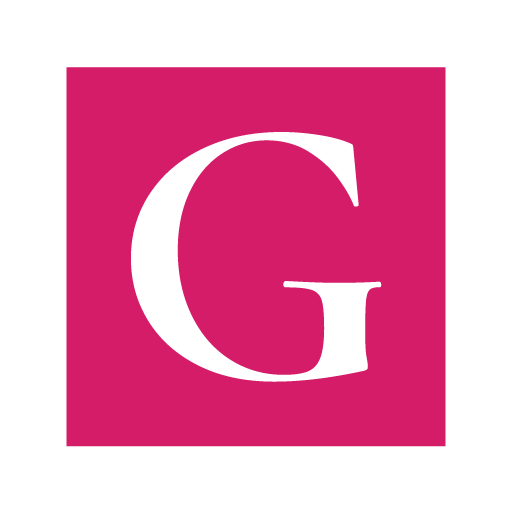
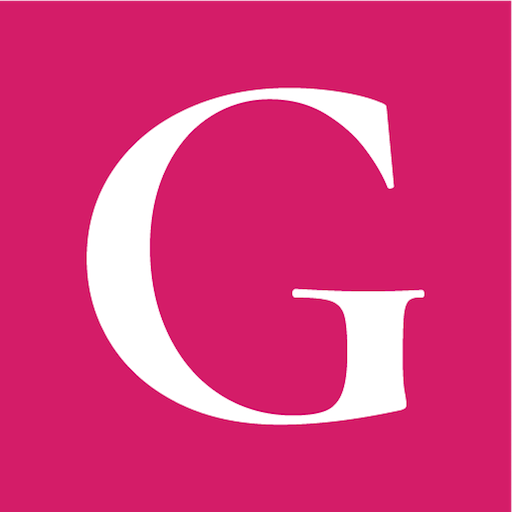
feat: update manifest

diff --git a/internals/webpack/webpack.prod.babel.js b/internals/webpack/webpack.prod.babel.js
@@ -117,11 +117,11 @@ module.exports = require('./webpack.base.babel')({
     }),
 
     new WebpackPwaManifest({
-      name: 'React Boilerplate',
-      short_name: 'React BP',
-      description: 'My React Boilerplate-based project!',
-      background_color: '#fafafa',
-      theme_color: '#b1624d',
+      name: 'The Girl Manual Podcast',
+      short_name: 'The Girl Manual',
+      description: 'The Girl Manual Podcast Homepage!',
+      background_color: '#ffffff',
+      theme_color: '#CB1A5C',
       inject: true,
       ios: true,
       icons: [
